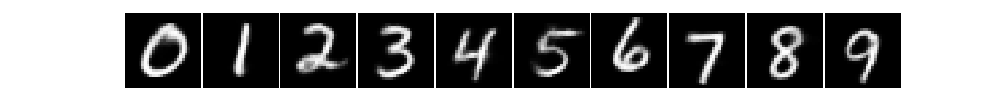
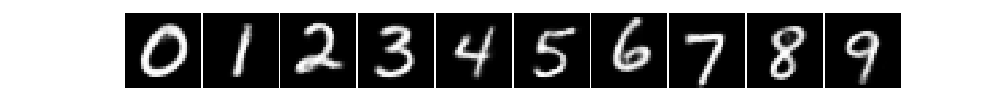
added new results

diff --git a/autoencoders/models.py b/autoencoders/models.py
@@ -2,7 +2,7 @@ import numpy as np
 
 import keras
 from keras.models import Model
-from keras.layers import Input, Dense, Dropout, Lambda, Activation, Reshape, Flatten
+from keras.layers import Input, Dense, Dropout, Lambda, Activation, Reshape, Flatten, BatchNormalization
 from keras.layers import Conv2D, MaxPooling2D, UpSampling2D, Conv2DTranspose
 
 class Flatten_AE():
@@ -33,10 +33,13 @@ class Flatten_AE():
 # 		x = Reshape((img_size, img_size, 1), name='enc_reshape')(x)
 # 		x = Conv2D(16, (3, 3), activation='relu', padding='same', name='enc_conv_1')(x)
 # 		x = MaxPooling2D((2, 2), padding='same', name='enc_pool_1')(x)
+# 		# x = BatchNormalization()(x)
 # 		x = Conv2D(8, (3, 3), activation='relu', padding='same', name='enc_conv_2')(x)
 # 		x = MaxPooling2D((2, 2), padding='same', name='enc_pool_2')(x)
+# 		# x = BatchNormalization()(x)
 # 		x = Conv2D(8, (3, 3), activation='relu', padding='same', name='enc_conv_3')(x)
 # 		x = MaxPooling2D((2, 2), padding='same', name='enc_pool_3')(x)
+# 		x = BatchNormalization()(x)
 # 		# at this point the representation is (4, 4, 8) i.e. 128-dimensional
 		
 # 		x = Flatten(name='enc_flattent')(x)
@@ -95,11 +98,13 @@ class CNN_AE():
 		x = Conv2D(32, (3, 3), activation='relu', padding='same', name='enc_conv_1')(x)
 		x = Conv2D(64, (3, 3), activation='relu', padding='same', name='enc_conv_2')(x)
 		x = MaxPooling2D((2, 2), padding='same', name='enc_pool_2')(x)
-		x = Dropout(0.2)(x) #0.25
+		# x = Dropout(0.2)(x) #0.25
+		x = BatchNormalization()(x)
 		x = Flatten(name='enc_flattent')(x)
 		# x = Dense(3136, activation='relu')(x)
 		x = Dense(128, activation='relu')(x)
-		x = Dropout(0.2)(x) # 0.5
+		# x = Dropout(0.2)(x) # 0.5
+		x = BatchNormalization()(x)
 		self.encoder_layer = Dense(latent_size, activation='sigmoid', name='enc_dense_2')(x)
 
 		dec_0 = Dense(128, activation='relu', name='dec_dense_1')

diff --git a/utils/parser.py b/utils/parser.py
@@ -1,11 +1,23 @@
 import argparse
+import time
+
+def get_timestamp_filename():
+	return str(int(time.time()))+'.hdf5'
 
 def parse():
+	out_path = './out/'
 	model_list = ['flatten', 'cnn']
+
 	parser = argparse.ArgumentParser()
 	parser.add_argument('-r', '--random', action='store_true', help='Random uniform as zero value.')
 	parser.add_argument('-1', '--ones', action='store_true', help='Use 1 as zero value.')
 	parser.add_argument('--model', default='flatten', choices=model_list, type=str.lower, help='Autoencoder model.')
+	parser.add_argument('-P', '--load_path', required=False, help='Model path.')
 	args = vars(parser.parse_args())
  
+ 	if args['model'] == 'cnn':
+ 		args['save_path'] = out_path+'cnn/'+get_timestamp_filename()
+ 	else:
+ 		args['save_path'] = out_path+'flatten/'+get_timestamp_filename()
+
  	return args

diff --git a/ae_classifier.py b/ae_classifier.py
@@ -39,7 +39,11 @@ ae_model.ae.compile(optimizer='adam',
 				loss='binary_crossentropy',
 				metrics=['mae'])
 
-ae_model.ae.fit(x_xy_y_train, x_xy_y_train, epochs=EPOCHS, shuffle=True, batch_size=BATCH_SIZE)
+if args['load_path']:
+	ae_model.ae.load_weights(args['load_path'])
+else:
+	ae_model.ae.fit(x_xy_y_train, x_xy_y_train, epochs=EPOCHS, shuffle=True, batch_size=BATCH_SIZE)
+	# ae_model.ae.save(args['save_path'])
 
 score = ae_model.ae.evaluate(x_test, x_test, verbose=0)
 print 'Test loss:', score[0]

diff --git a/README.md b/README.md
@@ -17,40 +17,55 @@ Input handwritten digit, output class as a probability vector
 
 <table>
   <tr>
+    <th rowspan="2">Learning strategy</th>
+    <th rowspan="2">Latent mapping</th>
+    <th rowspan="2">Accuracy</th>
     <th>Model</th>
-    <th>Method</th>
-    <th>Accuracy</th>
   </tr>
   <tr>
-    <td rowspan="7">Flatten</td>
+    <td>Flatten</td>
+    <td>CNN</td>
+  </tr>
+  <tr>
     <td>Feature extraction</td>
+    <td>-</td>
     <td>0.8989</td>
+    <td>0.8362</td>
   </tr>
   <tr>
-    <td>Pattern matching (FN)</td>
+    <td rowspan="2">Pattern matching</td>
+    <td>FN</td>
     <td>0.7733</td>
+    <td>0.7035</td>
   </tr>
   <tr>
-    <td>Pattern matching (ADD)</td>
+    <td>(ADD)</td>
     <td>0.7457</td>
+    <td>0.5832</td>
   </tr>
   <tr>
-    <td>Pattern completion (FN)</td>
+    <td rowspan="2">Pattern completion</td>
+    <td>FN</td>
     <td>0.9212</td>
+    <td>0.9741</td>
   </tr>
   <tr>
-    <td>Pattern completion (ADD)</td>
+    <td>(ADD)</td>
     <td>0.9240</td>
+    <td>0.9723</td>
   </tr>
   <tr>
-    <td>Pattern completion (FN, all)</td>
+    <td rowspan="2">Pattern completion (all)</td>
+    <td>FN</td>
     <td>0.9097</td>
+    <td>0.9067</td>
   </tr>
   <tr>
-    <td>Pattern completion (ADD, all)</td>
+    <td>(ADD)</td>
     <td>0.8498</td>
+    <td>0.7641</td>
   </tr>
-  <tr>
+  <!-- <tr>
     <td rowspan="7">CNN</td>
     <td>Feature extraction</td>
     <td>0.8800</td>
@@ -78,7 +93,7 @@ Input handwritten digit, output class as a probability vector
   <tr>
     <td>Pattern completion (ADD, all)</td>
     <td>0.6913</td>
-  </tr>
+  </tr> -->
 </table>
 
 
@@ -108,6 +123,10 @@ Input one-hot encoded label, output handwritten digit.
     <td rowspan="2">CNN</td>
     <td>End-to-End</td>
     <td><img src="./images/cnn_generation_E2E.png" alt="Digit generation using end-to-end model"></td>
+  </tr>
+  <tr>
+    <td>Pattern completion (ADD)</td>
+    <td><img src="./images/cnn_generation_PCL-add.png" alt="Digit generation using PCL model"></td>
   </tr>
   <tr>
     <td>Pattern completion (FN)</td>
